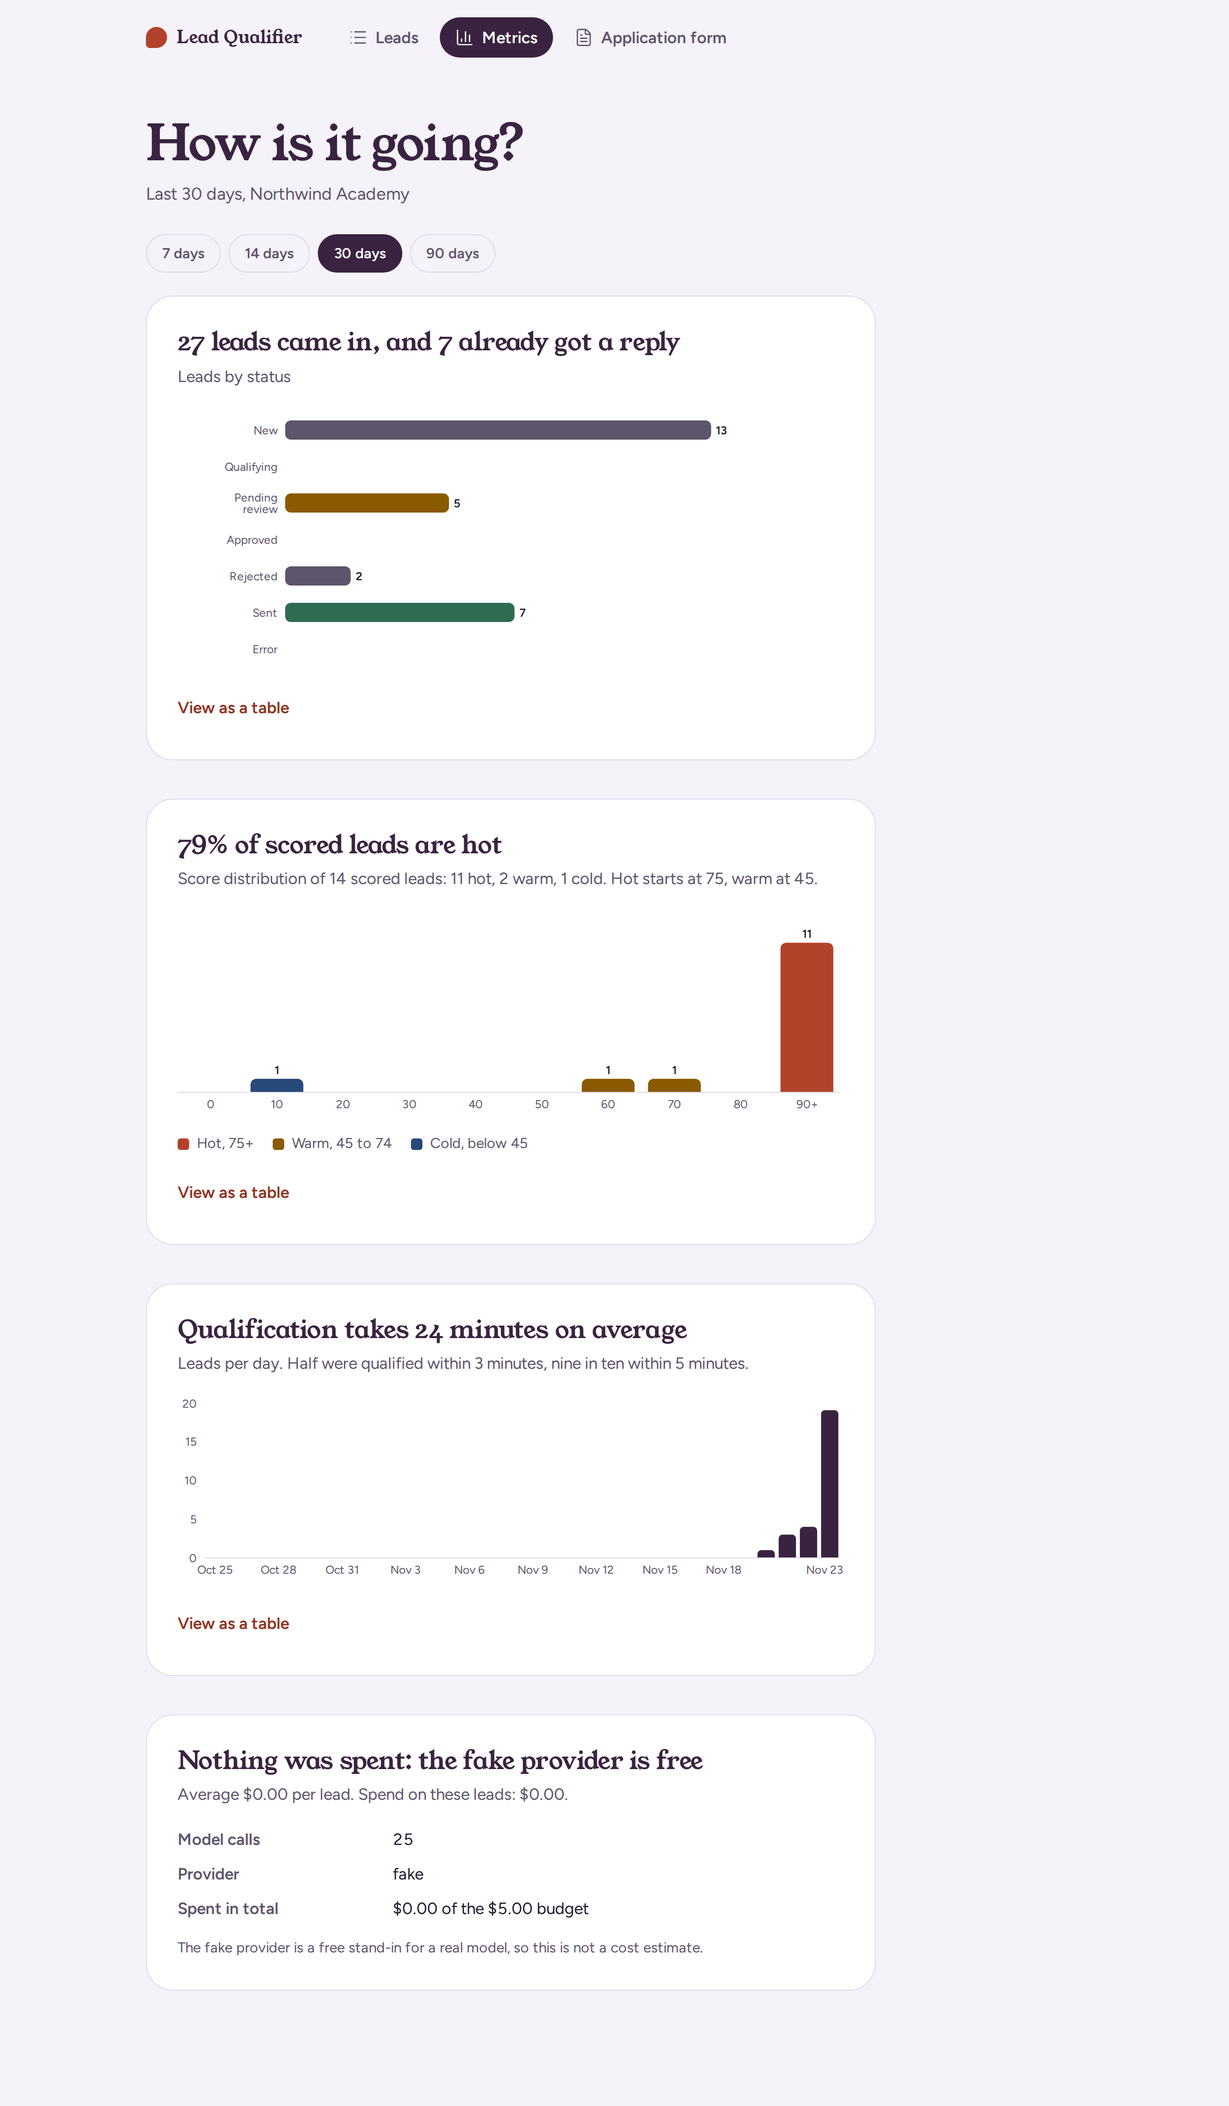
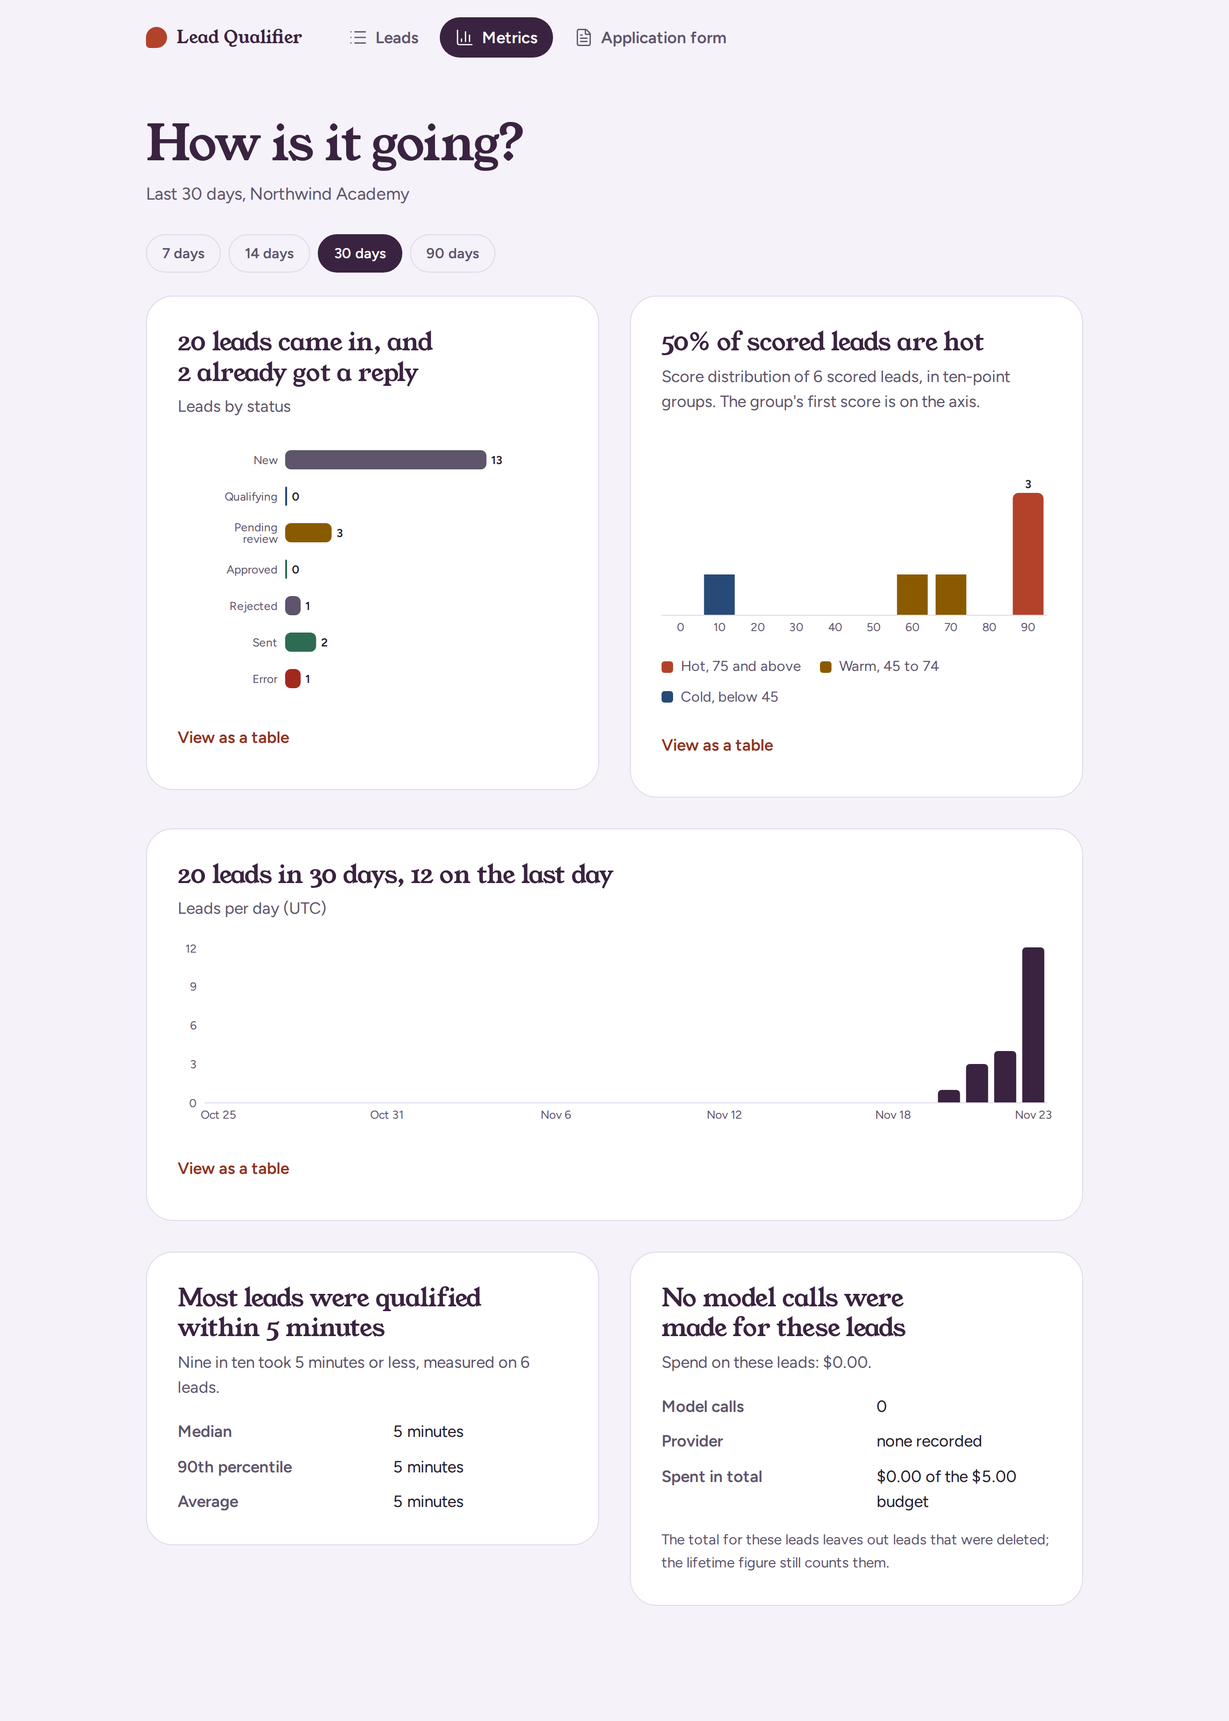
fix(web): metrics headlines on the median, stacked tier buckets, even ticks, two-column grid and table fallbacks

diff --git a/apps/web/features/metrics/metrics-view.tsx b/apps/web/features/metrics/metrics-view.tsx
@@ -8,8 +8,8 @@ import { Bar, BarChart, Cell, LabelList, XAxis, YAxis } from "recharts";
 import type { Metrics, WorkspaceSummary } from "@/lib/api/schemas";
 import { pluralize } from "@/lib/format";
 import {
-  bucketTier,
   costHeadline,
+  dayTicks,
   formatDuration,
   formatUsd,
   rangeFor,
@@ -19,7 +19,9 @@ import {
   shortDay,
   statusHeadline,
   statusLabel,
+  timeCaption,
   timeHeadline,
+  volumeHeadline,
 } from "@/lib/metrics/summary";
 import { fetchMetrics, metricsKey } from "../leads/queries";
 
@@ -36,8 +38,7 @@ const TIER_FILL = {
   hot: "var(--wq-accent)",
   warm: "var(--wq-amber)",
   cold: "var(--wq-info)",
-  none: "var(--wq-plum)",
-};
+  };
 
 type Props = { workspaces: WorkspaceSummary[]; defaultWorkspace: string };
 
@@ -114,18 +115,18 @@ export function MetricsView({ workspaces, defaultWorkspace }: Props) {
 }
 
 function Cards({ m }: { m: Metrics }) {
+  const [allDays, setAllDays] = useState(false);
   const statusRows = m.by_status.map((s) => ({ ...s, label: statusLabel(s.status) }));
   const scoreRows = m.score_histogram.map((b) => ({
     ...b,
-    label: b.max_score === 100 ? "90+" : String(b.min_score),
+    label: String(b.min_score),
     range: `${b.min_score} to ${b.max_score}`,
-    tier: bucketTier(b.min_score, m.tier_thresholds),
   }));
   const dayRows = m.leads_per_day.map((d) => ({ ...d, label: shortDay(d.day) }));
+  const busiest = dayRows.reduce((a, b) => (b.count > a.count ? b : a));
   const t = m.time_to_qualify;
   const th = m.tier_thresholds;
   const scored = scoredCount(m);
-  const tierCount = (tier: string) => m.tier_split.find((x) => x.tier === tier)?.count ?? 0;
 
   return (
     <div className="stack">
@@ -146,11 +147,11 @@ function Cards({ m }: { m: Metrics }) {
         >
           <XAxis type="number" hide />
           <YAxis type="category" dataKey="label" width={112} tickLine={false} axisLine={false} tick={AXIS} />
-          <Bar dataKey="count" radius={6} barSize={20}>
+          <Bar dataKey="count" radius={6} barSize={20} minPointSize={2}>
             {statusRows.map((s) => (
               <Cell key={s.status} fill={STATUS_FILL[s.status]} />
             ))}
-            <LabelList dataKey="count" position="right" style={VALUE} />
+            <LabelList dataKey="count" position="right" style={VALUE} formatter={(v: unknown) => String(v)} />
           </Bar>
         </BarChart>
       </ChartCard>
@@ -161,21 +162,30 @@ function Cards({ m }: { m: Metrics }) {
         caption={
           scored === 0
             ? "Score distribution"
-            : `Score distribution of ${pluralize(scored, "scored lead")}: ${tierCount("hot")} hot, ${tierCount("warm")} warm, ${tierCount("cold")} cold.${th ? ` Hot starts at ${th.hot_min}, warm at ${th.warm_min}.` : ""}`
+            : `Score distribution of ${pluralize(scored, "scored lead")}, in ten-point groups. The group's first score is on the axis.`
         }
-        summary={`Score distribution in ten-point groups: ${scoreRows.filter((b) => b.count > 0).map((b) => `${b.range}: ${b.count}`).join(", ") || "no scored leads"}.`}
-        table={<DataTable head={["Score", "Leads"]} rows={scoreRows.map((b) => [b.range, String(b.count)])} />}
+        summary={`Score distribution in ten-point groups: ${scoreRows.filter((b) => b.count > 0).map((b) => `${b.range}: ${b.count} (${b.hot} hot, ${b.warm} warm, ${b.cold} cold)`).join("; ") || "no scored leads"}.`}
+        table={
+          <DataTable
+            head={["Score", "Leads"]}
+            rows={scoreRows.filter((b) => b.count > 0).map((b) => [b.range, `${b.count} (${b.hot} hot, ${b.warm} warm, ${b.cold} cold)`])}
+          />
+        }
         legend={
-          th && (
-            <ul className="legend">
-              {(["hot", "warm", "cold"] as const).map((tier) => (
-                <li key={tier}>
-                  <i style={{ background: TIER_FILL[tier] }} aria-hidden="true" />
-                  {tier === "hot" ? `Hot, ${th.hot_min}+` : tier === "warm" ? `Warm, ${th.warm_min} to ${th.hot_min - 1}` : `Cold, below ${th.warm_min}`}
-                </li>
-              ))}
-            </ul>
-          )
+          <ul className="legend">
+            {(["hot", "warm", "cold"] as const).map((tier) => (
+              <li key={tier}>
+                <i style={{ background: TIER_FILL[tier] }} aria-hidden="true" />
+                {th
+                  ? tier === "hot"
+                    ? `Hot, ${th.hot_min} and above`
+                    : tier === "warm"
+                      ? `Warm, ${th.warm_min} to ${th.hot_min - 1}`
+                      : `Cold, below ${th.warm_min}`
+                  : tier[0].toUpperCase() + tier.slice(1)}
+              </li>
+            ))}
+          </ul>
         }
       >
         <BarChart
@@ -187,10 +197,9 @@ function Cards({ m }: { m: Metrics }) {
         >
           <XAxis dataKey="label" tickLine={false} axisLine={{ stroke: "var(--wq-line)" }} tick={AXIS} />
           <YAxis hide allowDecimals={false} />
-          <Bar dataKey="count" radius={[6, 6, 0, 0]}>
-            {scoreRows.map((b) => (
-              <Cell key={b.min_score} fill={TIER_FILL[b.tier]} />
-            ))}
+          <Bar dataKey="cold" stackId="s" fill={TIER_FILL.cold} />
+          <Bar dataKey="warm" stackId="s" fill={TIER_FILL.warm} />
+          <Bar dataKey="hot" stackId="s" fill={TIER_FILL.hot} radius={[6, 6, 0, 0]}>
             <LabelList dataKey="count" position="top" style={VALUE} formatter={(v: unknown) => (Number(v) > 0 ? String(v) : "")} />
           </Bar>
         </BarChart>
@@ -198,10 +207,21 @@ function Cards({ m }: { m: Metrics }) {
 
       <ChartCard
         id="m-day"
-        headline={timeHeadline(m)}
-        caption={`Leads per day${t.p50_seconds !== null && t.p90_seconds !== null ? `. Half were qualified within ${formatDuration(t.p50_seconds)}, nine in ten within ${formatDuration(t.p90_seconds)}.` : ""}`}
-        summary={`Leads per day over ${dayRows.length} days, ${m.total_leads} in total; busiest day ${dayRows.reduce((a, b) => (b.count > a.count ? b : a)).label} with ${Math.max(...dayRows.map((d) => d.count))}.`}
-        table={<DataTable head={["Day", "Leads"]} rows={dayRows.map((d) => [d.label, String(d.count)])} />}
+        wide
+        headline={volumeHeadline(m)}
+        caption="Leads per day (UTC)"
+        summary={`Leads per day over ${dayRows.length} days, ${m.total_leads} in total; busiest day ${busiest.label} with ${busiest.count}.`}
+        table={
+          <>
+            <DataTable
+              head={["Day", "Leads"]}
+              rows={(allDays ? dayRows : dayRows.filter((d) => d.count > 0)).map((d) => [d.label, String(d.count)])}
+            />
+            <button className="btn linkish" type="button" aria-pressed={allDays} onClick={() => setAllDays((v) => !v)}>
+              {allDays ? "Show only days with leads" : "Show all days"}
+            </button>
+          </>
+        }
       >
         <BarChart
           responsive
@@ -210,11 +230,26 @@ function Cards({ m }: { m: Metrics }) {
           margin={{ top: 8, right: 4, bottom: 0, left: 0 }}
           style={{ width: "100%", height: 200 }}
         >
-          <XAxis dataKey="label" tickLine={false} axisLine={{ stroke: "var(--wq-line)" }} tick={AXIS} interval="preserveStartEnd" minTickGap={28} />
+          <XAxis dataKey="label" ticks={dayTicks(dayRows.map((d) => d.label))} interval={0} tickLine={false} axisLine={{ stroke: "var(--wq-line)" }} tick={AXIS} />
           <YAxis width={28} allowDecimals={false} tickLine={false} axisLine={false} tick={AXIS} />
           <Bar dataKey="count" fill="var(--wq-plum)" radius={[4, 4, 0, 0]} />
         </BarChart>
       </ChartCard>
+
+      <section className="mc" aria-labelledby="m-time">
+        <h2 id="m-time">{timeHeadline(m)}</h2>
+        <p className="cap">{timeCaption(m)}</p>
+        {t.count > 0 && t.p50_seconds !== null && t.p90_seconds !== null && t.avg_seconds !== null && (
+          <dl className="kv">
+            <dt>Median</dt>
+            <dd className="num">{formatDuration(t.p50_seconds)}</dd>
+            <dt>90th percentile</dt>
+            <dd className="num">{formatDuration(t.p90_seconds)}</dd>
+            <dt>Average</dt>
+            <dd className="num">{formatDuration(t.avg_seconds)}</dd>
+          </dl>
+        )}
+      </section>
 
       <section className="mc" aria-labelledby="m-cost">
         <h2 id="m-cost">{costHeadline(m)}</h2>
@@ -232,11 +267,11 @@ function Cards({ m }: { m: Metrics }) {
             {formatUsd(m.cost.lifetime_spent_usd)} of the {formatUsd(m.cost.budget_usd)} budget
           </dd>
         </dl>
-        {m.cost.providers.includes("fake") && (
-          <p className="muted note">
-            The fake provider is a free stand-in for a real model, so this is not a cost estimate.
-          </p>
-        )}
+        <p className="muted note">
+          The total for these leads leaves out leads that were deleted; the lifetime figure still
+          counts them.
+          {m.cost.providers.includes("fake") && " The fake provider is a free stand-in for a real model, so this is not a cost estimate."}
+        </p>
       </section>
     </div>
   );
@@ -247,6 +282,7 @@ const VALUE = { fill: "var(--wq-ink)", fontSize: 12, fontWeight: 600 };
 
 function ChartCard({
   id,
+  wide,
   headline,
   caption,
   summary,
@@ -255,6 +291,7 @@ function ChartCard({
   children,
 }: {
   id: string;
+  wide?: boolean;
   headline: string;
   caption: string;
   summary: string;
@@ -264,7 +301,7 @@ function ChartCard({
 }) {
   const descId = useId();
   return (
-    <section className="mc" aria-labelledby={id}>
+    <section className={`mc${wide ? " wide" : ""}`} aria-labelledby={id}>
       <h2 id={id}>{headline}</h2>
       <p className="cap">{caption}</p>
       <div className="chart" role="img" aria-labelledby={id} aria-describedby={descId}>
@@ -284,7 +321,7 @@ function ChartCard({
 
 function DataTable({ head, rows }: { head: [string, string]; rows: string[][] }) {
   return (
-    <table className="runlog dt">
+    <table className="dt">
       <thead>
         <tr>
           <th scope="col">{head[0]}</th>

diff --git a/apps/web/tests/metrics.test.ts b/apps/web/tests/metrics.test.ts
@@ -1,7 +1,9 @@
 import { beforeEach, describe, expect, it, vi } from "vitest";
 import type { Metrics } from "@/lib/api/schemas";
 import {
-  bucketTier,
+  dayTicks,
+  timeCaption,
+  volumeHeadline,
   costHeadline,
   formatDuration,
   formatUsd,
@@ -26,9 +28,9 @@ const base: Metrics = {
     { status: "sent", count: 20 },
   ],
   score_histogram: [
-    { min_score: 0, max_score: 9, count: 1 },
-    { min_score: 70, max_score: 79, count: 6 },
-    { min_score: 90, max_score: 100, count: 3 },
+    { min_score: 0, max_score: 9, count: 1, hot: 0, warm: 0, cold: 1 },
+    { min_score: 70, max_score: 79, count: 6, hot: 3, warm: 3, cold: 0 },
+    { min_score: 90, max_score: 100, count: 3, hot: 3, warm: 0, cold: 0 },
   ],
   tier_split: [
     { tier: "hot", count: 6 },
@@ -38,7 +40,10 @@ const base: Metrics = {
   ],
   tier_thresholds: { hot_min: 75, warm_min: 45 },
   time_to_qualify: { count: 10, avg_seconds: 38, p50_seconds: 30, p90_seconds: 70 },
-  leads_per_day: [{ day: "2026-11-01", count: 2 }],
+  leads_per_day: [
+    { day: "2026-11-01", count: 2 },
+    { day: "2026-11-02", count: 5 },
+  ],
   cost: {
     total_usd: 0.4,
     avg_per_lead_usd: 0.0094,
@@ -55,7 +60,12 @@ describe("metrics wording", () => {
     expect(statusHeadline(base)).toBe("43 leads came in, and 24 already got a reply");
     expect(repliedCount(base)).toBe(24);
     expect(scoreHeadline(base)).toBe("60% of scored leads are hot");
-    expect(timeHeadline(base)).toBe("Qualification takes 38 seconds on average");
+    expect(timeHeadline(base)).toBe("Half of the leads were qualified within 30 seconds");
+    expect(timeCaption(base)).toContain("Nine in ten took 70 seconds or less");
+    expect(timeHeadline({ ...base, time_to_qualify: { ...base.time_to_qualify, p90_seconds: 30 } })).toBe(
+      "Most leads were qualified within 30 seconds",
+    );
+    expect(volumeHeadline(base)).toBe("43 leads in 2 days, 5 on the last day");
     expect(costHeadline(base)).toBe("Each lead costs under one cent");
   });
 
@@ -90,10 +100,14 @@ describe("metrics helpers", () => {
     expect(shortDay("2026-11-05")).toBe("Nov 5");
   });
 
-  it("colors score buckets by the workspace thresholds", () => {
-    const t = { hot_min: 75, warm_min: 45 };
-    expect([0, 40, 50, 70, 80, 90].map((n) => bucketTier(n, t))).toEqual(["cold", "cold", "warm", "warm", "hot", "hot"]);
-    expect(bucketTier(80, null)).toBe("none");
+  it("spaces axis ticks evenly and keeps the last day", () => {
+    const days = Array.from({ length: 30 }, (_, i) => `d${i}`);
+    const ticks = dayTicks(days);
+    expect(ticks.at(-1)).toBe("d29");
+    expect(ticks.length).toBeLessThanOrEqual(7);
+    const gaps = ticks.slice(1, -1).map((t, i) => days.indexOf(t) - days.indexOf(ticks[i]));
+    expect(new Set(gaps).size).toBe(1);
+    expect(dayTicks(["a", "b"])).toEqual(["a", "b"]);
   });
 });
 

diff --git a/apps/web/lib/metrics/summary.ts b/apps/web/lib/metrics/summary.ts
@@ -48,10 +48,34 @@ export function scoreHeadline(m: Metrics): string {
   return `${Math.round((top.count / total) * 100)}% of scored leads are ${top.tier}`;
 }
 
+/** Median first, so a few slow or fast leads do not skew the sentence; p90 shows the tail. */
 export function timeHeadline(m: Metrics): string {
   const t = m.time_to_qualify;
-  if (t.count === 0 || t.avg_seconds === null) return "No lead has been qualified yet";
-  return `Qualification takes ${formatDuration(t.avg_seconds)} on average`;
+  if (t.count === 0 || t.p50_seconds === null) return "No lead has been qualified yet";
+  const median = formatDuration(t.p50_seconds);
+  if (t.p90_seconds !== null && formatDuration(t.p90_seconds) === median)
+    return `Most leads were qualified within ${median}`;
+  return `Half of the leads were qualified within ${median}`;
+}
+
+export function timeCaption(m: Metrics): string {
+  const t = m.time_to_qualify;
+  if (t.count === 0 || t.p90_seconds === null) return "Time from application to a score";
+  return `Nine in ten took ${formatDuration(t.p90_seconds)} or less, measured on ${pluralize(t.count, "lead")}.`;
+}
+
+export function volumeHeadline(m: Metrics): string {
+  const days = m.leads_per_day.length;
+  const today = m.leads_per_day.at(-1)?.count ?? 0;
+  return `${pluralize(m.total_leads, "lead")} in ${days === 1 ? "one day" : `${days} days`}, ${today} on the last day`;
+}
+
+/** Every k-th day label (and always the last) so axis ticks are evenly spaced. */
+export function dayTicks(labels: string[], target = 6): string[] {
+  if (labels.length <= target) return labels;
+  const step = Math.ceil((labels.length - 1) / (target - 1));
+  const ticks = labels.filter((_, i) => i % step === 0 && labels.length - 1 - i >= step / 2);
+  return [...ticks, labels[labels.length - 1]];
 }
 
 export function costHeadline(m: Metrics): string {
@@ -64,15 +88,6 @@ export function costHeadline(m: Metrics): string {
   return c.avg_per_lead_usd !== null && c.avg_per_lead_usd < 0.01
     ? "Each lead costs under one cent"
     : `Each lead costs ${formatUsd(c.avg_per_lead_usd ?? 0)} on average`;
-}
-
-/** Tier of a score bucket from the workspace thresholds (`none` when they are unknown). */
-export function bucketTier(
-  minScore: number,
-  thresholds: Metrics["tier_thresholds"],
-): "hot" | "warm" | "cold" | "none" {
-  if (!thresholds) return "none";
-  return minScore >= thresholds.hot_min ? "hot" : minScore >= thresholds.warm_min ? "warm" : "cold";
 }
 
 export const statusLabel = (status: string) => STATUS_LABELS[status] ?? status;

diff --git a/apps/web/e2e/metrics.spec.ts b/apps/web/e2e/metrics.spec.ts
@@ -11,8 +11,9 @@ test.describe("Metrics page", () => {
     await expect(status).toContainText(/\d+ leads came in/);
     await expect(page.getByRole("img", { name: /came in/ })).toBeVisible();
     await expect(page.locator("#m-score")).toContainText(/scored leads are (hot|warm|cold)/);
-    await expect(page.locator("#m-score").locator("..")).toContainText("Hot starts at 75, warm at 45");
-    await expect(page.locator("#m-day")).toContainText(/Qualification takes|No lead has been qualified/);
+    await expect(page.locator("section.mc:has(#m-score) .legend")).toContainText("Hot, 75 and above");
+    await expect(page.locator("#m-day")).toContainText(/\d+ leads? in \d+ days/);
+    await expect(page.locator("#m-time")).toContainText(/qualified within|No lead has been qualified/);
     await expect(page.locator("#m-cost")).toContainText(/No model calls|fake provider|Each lead costs/);
 
     // The chart really renders bars (recharts draws SVG rectangles).
@@ -34,6 +35,8 @@ test.describe("Metrics page", () => {
     await expect(page.getByText("Last 7 days")).toBeVisible();
     const days = page.locator("section.mc").filter({ has: page.locator("#m-day") });
     await days.getByText("View as a table").click();
+    await expect(days.getByRole("row").nth(1)).toBeVisible(); // only days with leads
+    await days.getByRole("button", { name: "Show all days" }).click();
     await expect(days.getByRole("row")).toHaveCount(8); // header + 7 days
   });
 

diff --git a/apps/web/app/design.css b/apps/web/app/design.css
@@ -159,3 +159,8 @@ input[aria-invalid=true],select[aria-invalid=true],textarea[aria-invalid=true]{b
 .dt{max-width:420px}.mc .note{margin:16px 0 0;font-size:.9375rem}
 .filters+.stack,.filters+.empty,.filters+div{margin-top:24px}
 @media (max-width:760px){.mc{padding:20px 16px;border-radius:24px}.stack{gap:28px}}
+
+/* M4.1 review fixes */
+.dt{width:100%;max-width:520px}.dt th,.dt td{padding:10px 12px;text-align:left;font-size:.9375rem;border-top:1px solid var(--wq-line)}.dt thead th{font-size:.8125rem;color:var(--wq-muted);font-weight:600;border-top:0}.dt tbody th{font-weight:500}.dt .r{text-align:right}
+.linkish{min-height:44px;margin-top:8px}
+@media (min-width:1024px){.stack{grid-template-columns:repeat(2,minmax(0,1fr));max-width:none;gap:32px;align-items:start}.mc.wide{grid-column:1/-1}}

diff --git a/README.md b/README.md
@@ -50,9 +50,11 @@ heavy and their "AI" is a black box.
   original; a draft that fails the safety checks needs an explicit **Send anyway** (recorded in the
   timeline) and asks for confirmation first. Errors show a plain sentence, the reason code and a **Retry** button. All actions go through the Next.js BFF
   (server-side token, anti-CSRF header, Zod validation from the generated contracts).
-- **Metrics page** (`/dashboard/metrics`, `GET /admin/metrics`): leads by status, score distribution in
-  ten-point buckets coloured by tier, leads per day with average, median and p90 time to qualify, and
-  spend per lead against the budget. Each chart has a data-table alternative; with the fake provider
+- **Metrics page** (`/dashboard/metrics`, `GET /admin/metrics?workspace=&from=&to=`): leads by status,
+  score distribution in ten-point buckets stacked by tier, leads per day, median and p90 time to
+  qualify, and spend per lead against the budget. Days are UTC, the range is at most 366 days (default
+  30). The spend shown for a range leaves out leads that were deleted; the lifetime figure (from the
+  budget ledger) still counts them. Each chart has a data-table alternative; with the fake provider
   the page says the cost is zero because the provider is free, not because nothing ran.
 - **Qualification eval**: ten labelled fictional leads in [evals/qualification](evals/qualification/README.md),
   run in CI with the fake provider (`make eval`); a capped real-provider run is documented and opt-in. Fake-provider results verify the plumbing and the
